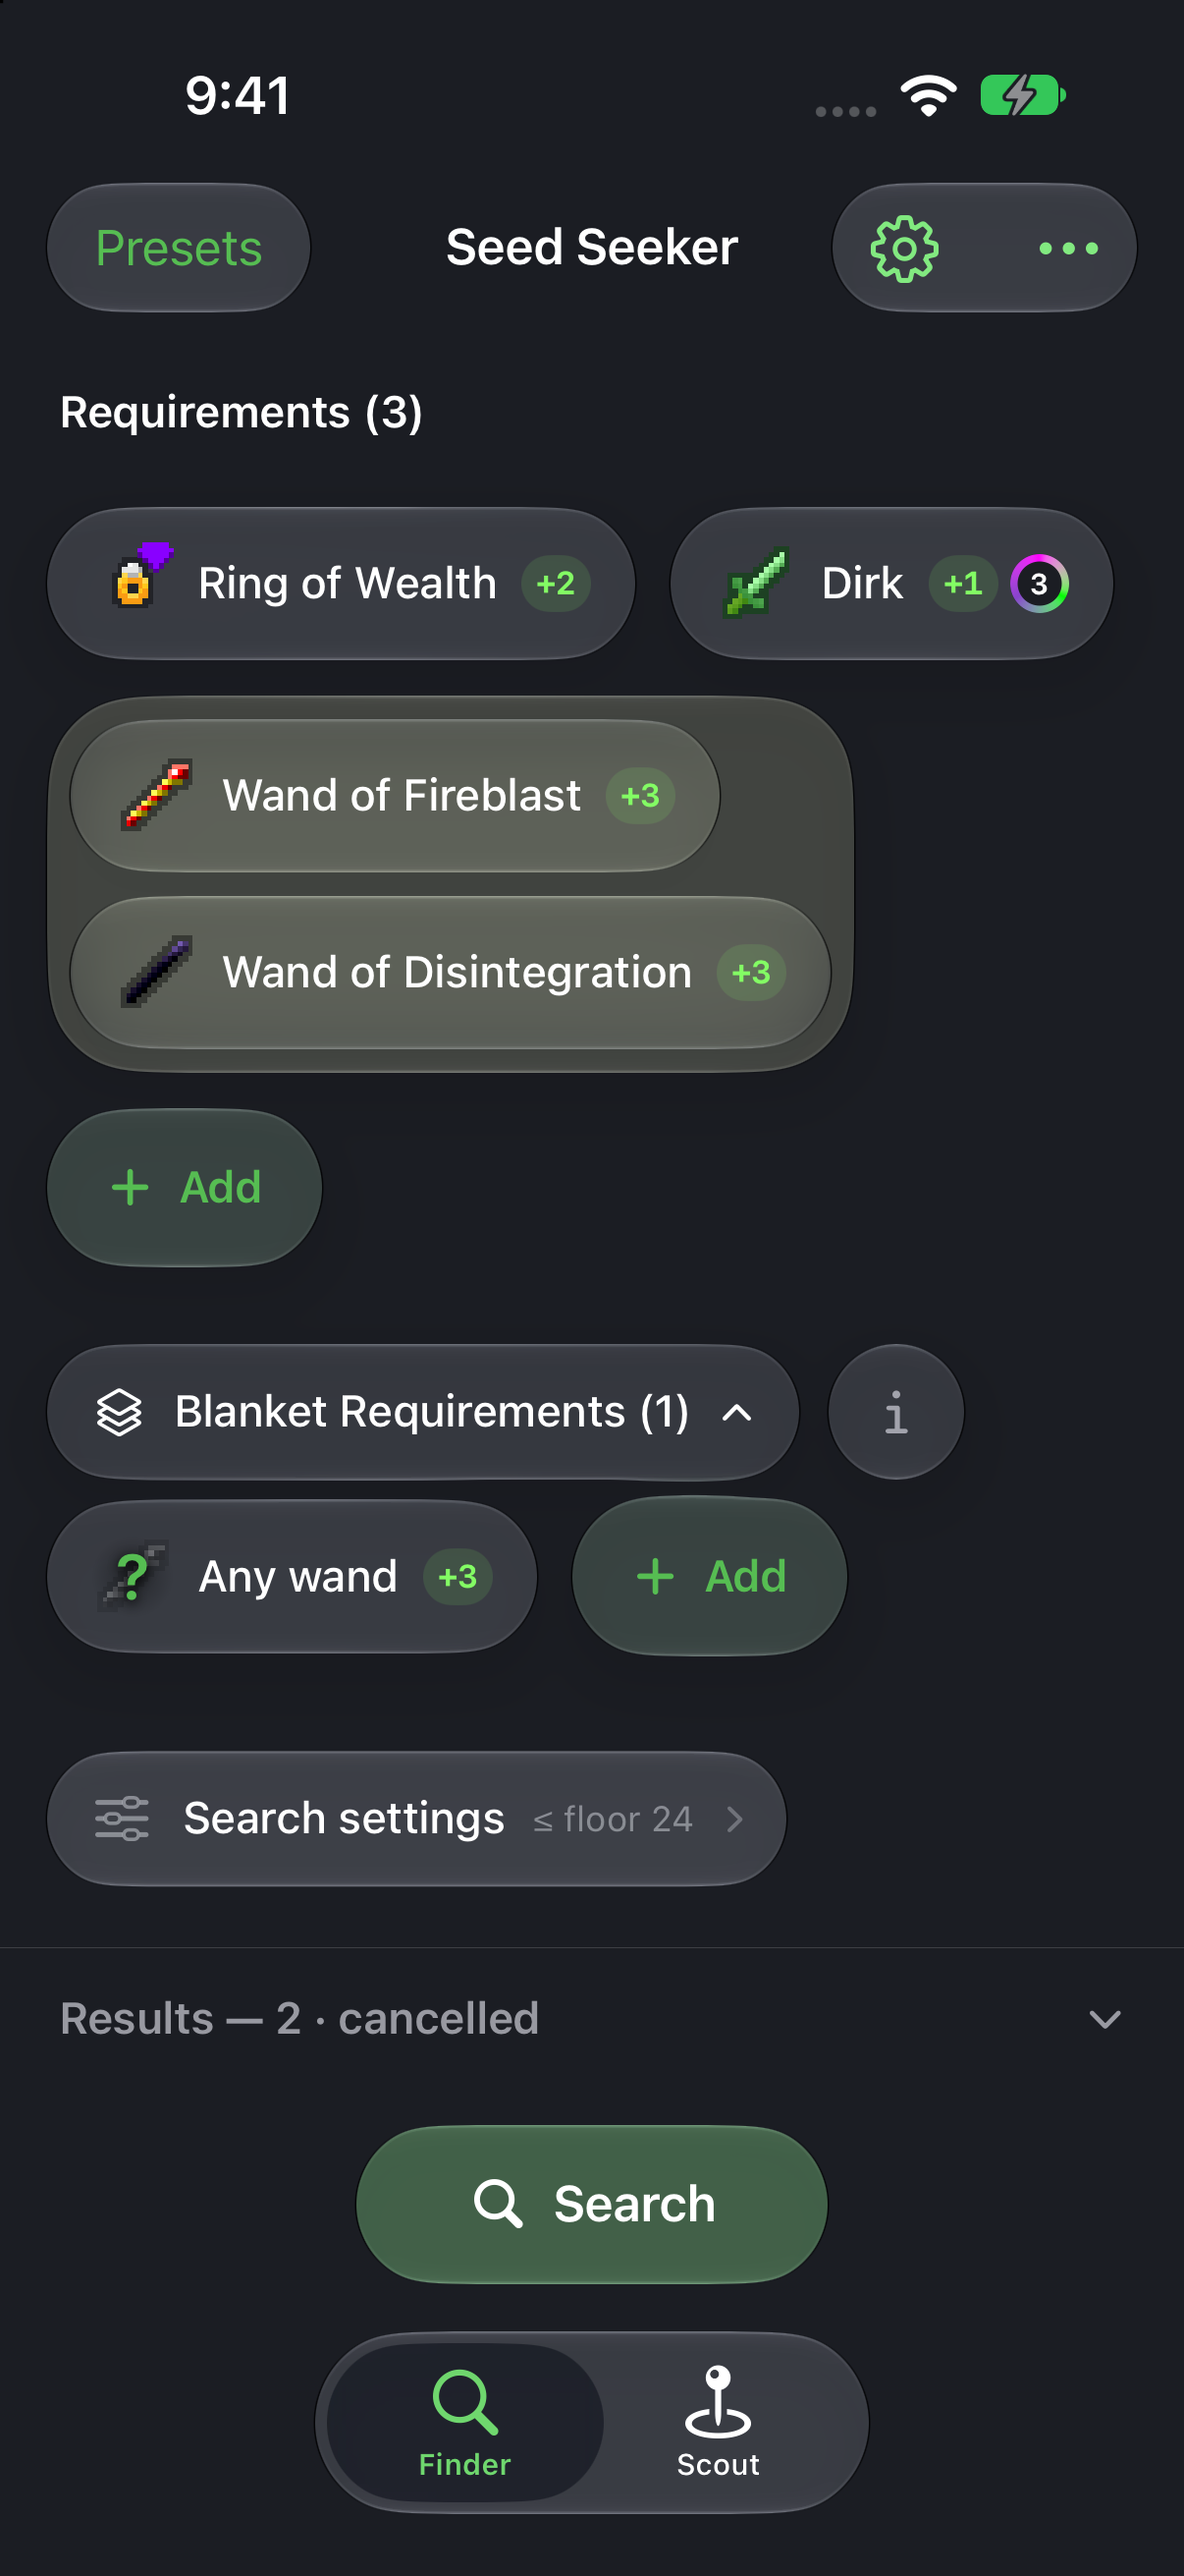
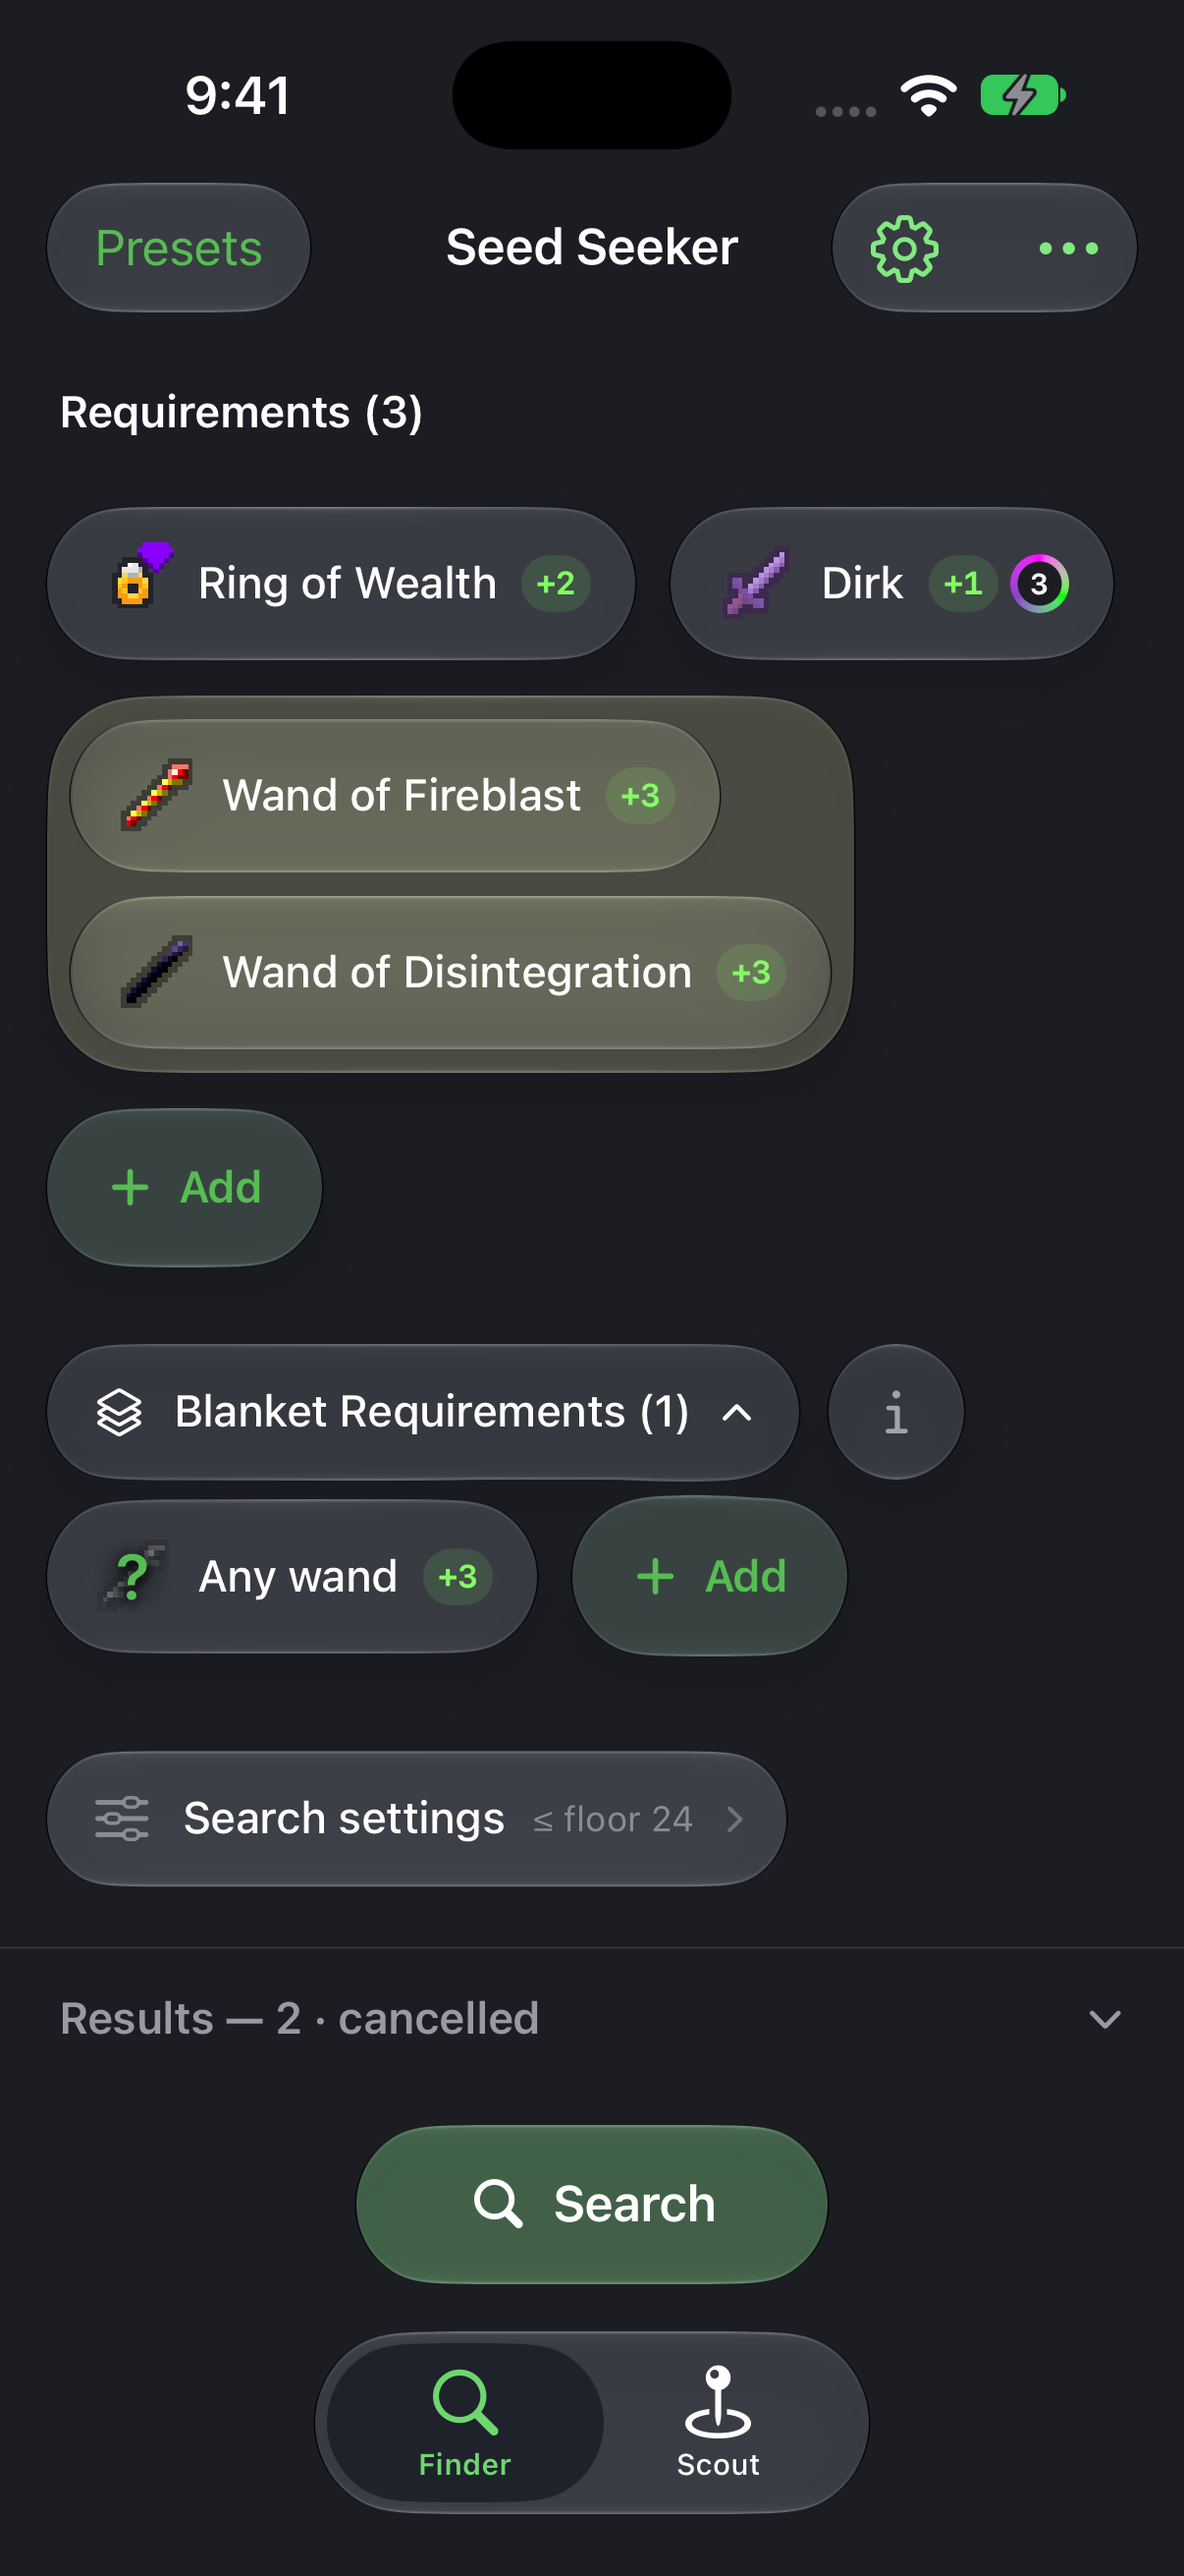
Warm the requirement group glass tint

Changed region(s): [[0.3682, 0.0, 0.6136, 0.0618], [0.6136, 0.2162, 0.675, 0.2471]]

diff --git a/ios/SeedSeeker/RequirementsView.swift b/ios/SeedSeeker/RequirementsView.swift
@@ -199,7 +199,7 @@ struct RequirementsView: View {
                 }
             }
             .padding(8)
-            .glassEffect(.regular.tint(AppTheme.seed.opacity(0.06)), in: .rect(cornerRadius: 32))
+            .glassEffect(.regular.tint(AppTheme.seed.opacity(0.10)), in: .rect(cornerRadius: 32))
             .glassEffectID("group-\(cluster)", in: glass)
             .id("group-\(cluster)")
         } else {
@@ -284,7 +284,7 @@ struct RequirementsView: View {
 
     private func chipTint(_ requirement: ItemRequirement, hovered: Bool) -> Color {
         if hovered { return AppTheme.seed.opacity(0.24) }
-        return requirement.alternativeGroup != nil ? AppTheme.seed.opacity(0.025) : .white.opacity(0.015)
+        return requirement.alternativeGroup != nil ? AppTheme.seed.opacity(0.04) : .white.opacity(0.015)
     }
 
     private func chipContent(_ requirement: ItemRequirement, item: BoardItem) -> some View {
